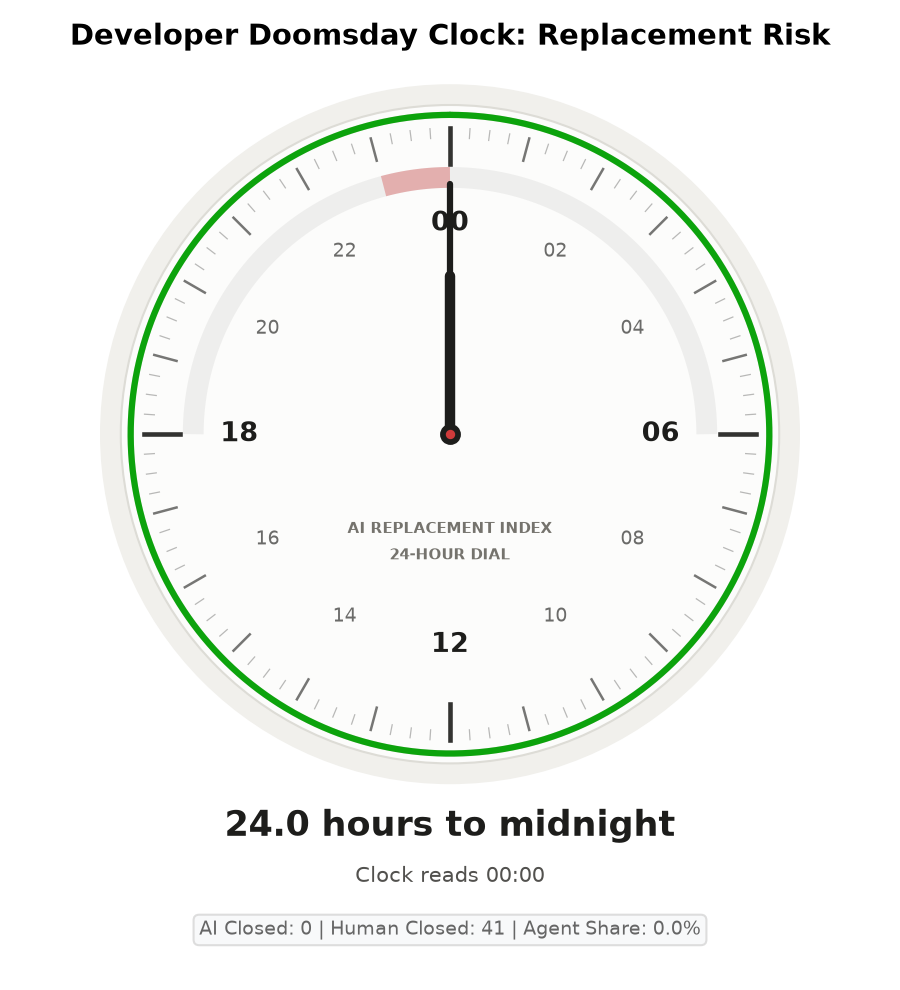
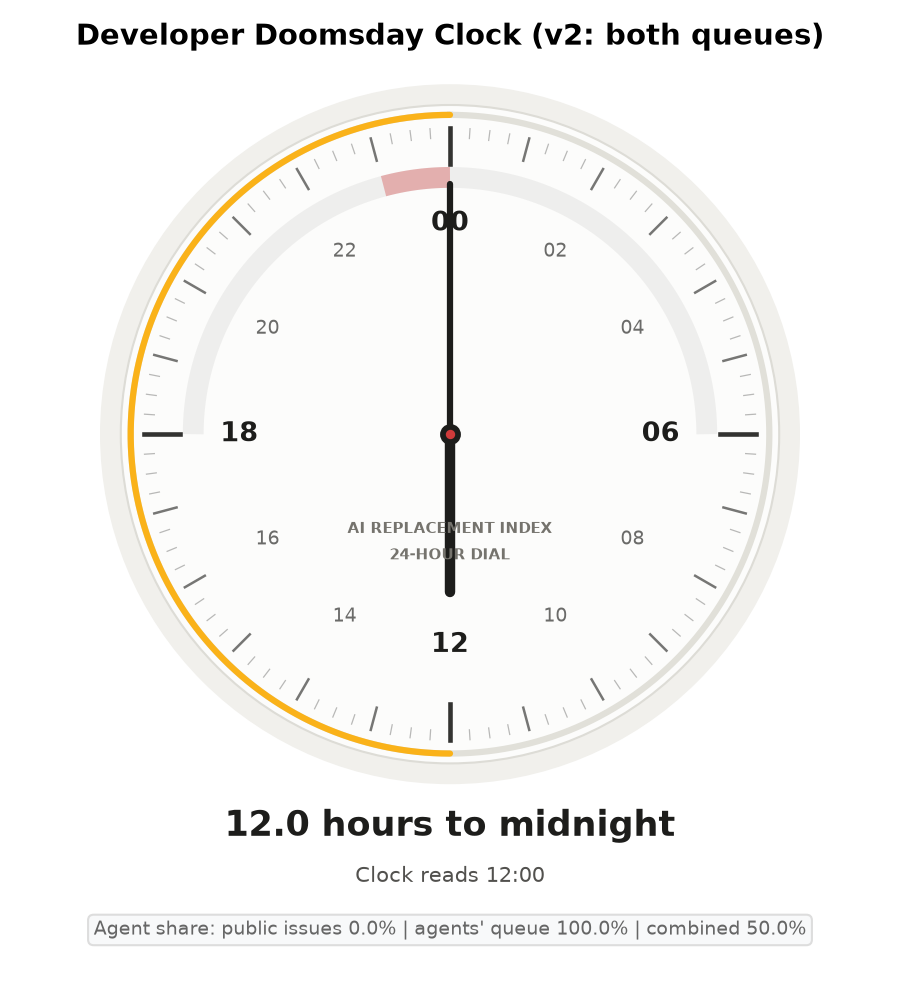
chore: update issue metrics & doomsday clock (2026-11-17) - manual trigger

diff --git a/README.md b/README.md
@@ -12,14 +12,16 @@ Automated tracking of open and closed issues in [`aws/aws-emulator`](https://git
 ## Current Snapshot & Developer Doomsday Clock
 
 <!-- STATS_START -->
-**Last Checked:** 2026-11-16 21:00 UTC  
+**Last Checked:** 2026-11-17 05:48 UTC  
 **Update Schedule:** every 6 hours (00:05, 06:05, 12:05, 18:05 UTC)  
-- **Doomsday Clock Index:** 24.0 hours to midnight (clock reads 00:00)  
-- **Bug Doom Loop Ratio:** 11.8 opened per issue closed (last 4.9 days)  
-- **Open Issues:** 457  
+- **Developer Doomsday Clock (v2):** 12.0 hours to midnight (clock reads 12:00)  
+- **Agent Resolution Share:** 50.0% combined (public issues 0.0%, agents' own queue 100.0%, weighted 50% / 50%)  
+- **Bug Doom Loop Ratio (public issues):** 12.1 opened per issue closed (last 5.2 days)  
+- **Open Issues:** 465  
 - **Closed by AI Agent:** 0  
 - **Closed by Human:** 41  
-- **Agent Resolution Share:** 0.0%
+- **Closures That Reference a Fix:** 4 of 41 (0 without a reference, 1 declined, 36 withdrawn by the reporter, 0 duplicate)  
+- **Agents' Own Queue (in-repo):** 5,860 open, 15,899 resolved (0 by people)
 <!-- STATS_END -->
 
 ### The Developer Doomsday Clock
